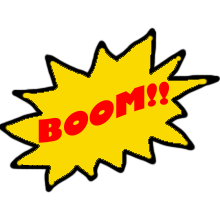
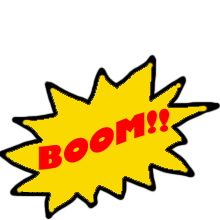
fixing positioning of the explosion

diff --git a/cupids.js b/cupids.js
@@ -12,7 +12,7 @@ preloadedFiringImage.src = "assets/enemies/TrumpCupidFired.png";
 export function createExplosionCupid(x, y, damage = 50, radius = 150, countdownTime = 3) {
     const explosionCupidBody = document.createElement('img');
     explosionCupidBody.className = "explosion-cupid-img";
-    explosionCupidBody.src = "assets/items/explosion.png";
+    explosionCupidBody.src = "assets/enemies/TrumpCupid.png";
     document.getElementById('game-area').appendChild(explosionCupidBody);
 
     const explosionCupid = {
@@ -199,9 +199,9 @@ export function cupidVisuals(cupid) {
 
 export function explosionCupidUpdate(entity) {
     entity.countdownDiv.style.left = (entity.x ) + 'px';
-    entity.countdownDiv.style.bottom = (entity.y) + 'px';
-    entity.dom.style.left = (entity.x - 300) + 'px';
-    entity.dom.style.bottom = (entity.y - 50) + 'px';
+    entity.countdownDiv.style.bottom = (entity.y + 50) + 'px';
+    entity.dom.style.left = (entity.x  ) + 'px';
+    entity.dom.style.bottom = (entity.y - 5 ) + 'px';
 
     if (!entity.exploded) {
         if (!entity._lastTick) entity._lastTick = Date.now();
@@ -214,7 +214,12 @@ export function explosionCupidUpdate(entity) {
         }
 
         if (entity.countdown <= 0) {
-            entity.exploded = true;
+            entity.dom.src = "assets/items/explosion.png";
+            entity.dom.style.width = "200px";
+            entity.dom.style.height = "300px";  
+            
+            //entity.dom.style.transform = 'none';
+            entity.exploded = true;            
             for (let e of allEntities) {
                 if (e === entity || e.disabled) continue;
 

diff --git a/style.css b/style.css
@@ -139,13 +139,13 @@ body {
 }
 .explosion-cupid-img {
   position: absolute;
-  width: 300px;
-  height: 300px;
+  width: 70px;
+  height: 70px;
   left: 0px;
   bottom: 0px;
-  transform: translate(calc(52% + var(--cupid-x)), calc(20% + var(--cupid-y)));
+  transform: translate(calc(-52% + var(--cupid-x)), calc(20% + var(--cupid-y)));
   opacity: 100%;
-  z-index: 8;
+  z-index: 100;
 }
 
 .cupid-countdown {
